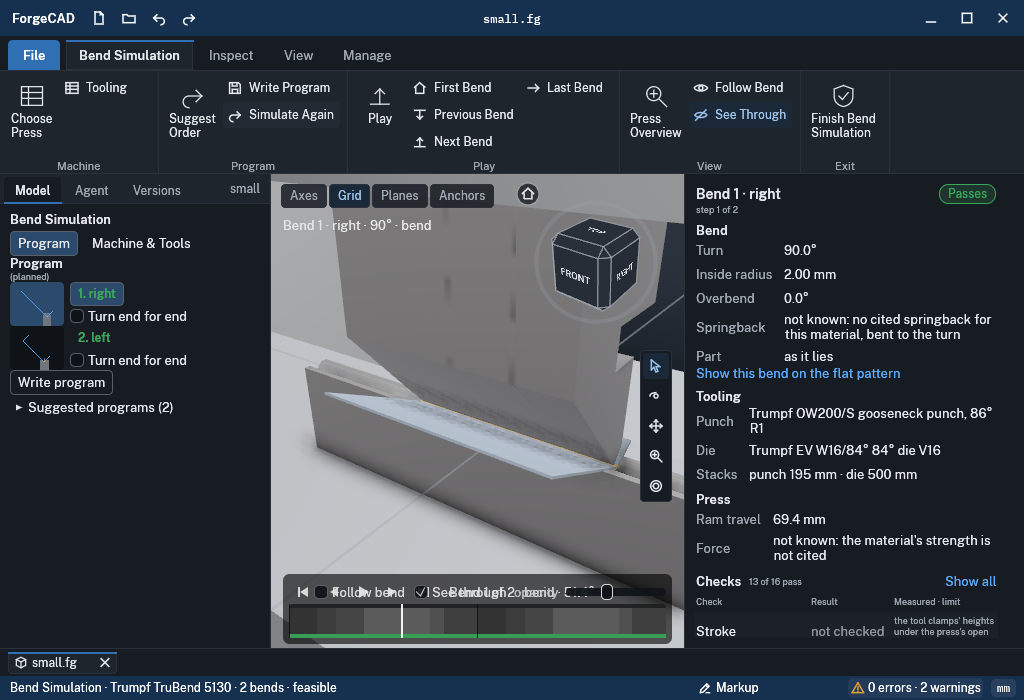
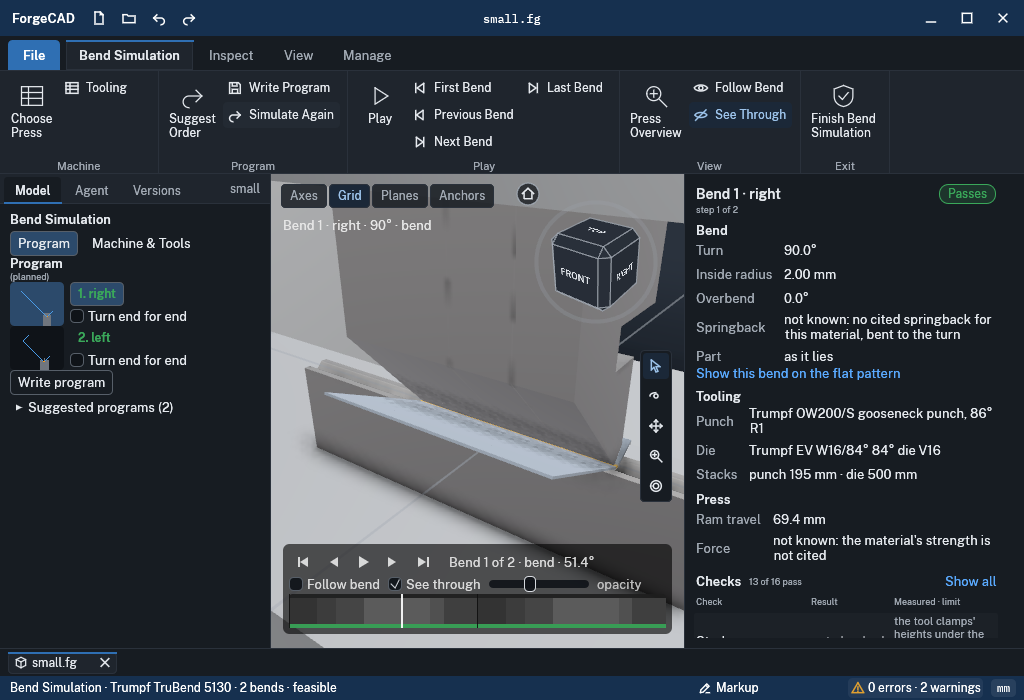
bendsim play bar: in a view under 900 px wide, Follow bend / See through / opacity on a row of their own (the bar taller), not drawn over the step's words (RENDER-STUDIO, 1000x700 in the browser); shot 09 re-shot, test checks the taller bar
Claude-Session: https://claude.ai/code/session_01WJtawvw7eU93rVnY2Eejbc

diff --git a/interface/forge-render/src/shell/bendsim.rs b/interface/forge-render/src/shell/bendsim.rs
@@ -1688,7 +1688,6 @@ pub fn bend_sheet(ui: &mut egui::Ui, t: &Theme, st: &mut BendSimUi) -> Option<St
     flat
 }
 
-/// The timeline: every step a block, its stages marked; drag to scrub.
 /// A transport button: its icon, its name and key on hover.
 fn transport(ui: &mut egui::Ui, icon: &str, tip: &str) -> egui::Response {
     let (r, resp) = ui.allocate_exact_size(egui::vec2(28.0, 24.0), egui::Sense::click());
@@ -1747,7 +1746,51 @@ fn transport(ui: &mut egui::Ui, icon: &str, tip: &str) -> egui::Response {
     resp.on_hover_text(tip)
 }
 
-pub fn timeline_ui(ui: &mut egui::Ui, st: &mut BendSimUi) {
+/// Follow bend, See through and its opacity: listed right to left at the bar's end, or left to
+/// right on a row of their own.
+fn view_settings(ui: &mut egui::Ui, st: &mut BendSimUi, rtl: bool) {
+    ui.spacing_mut().item_spacing.x = 8.0;
+    let ink = egui::Color32::from_gray(230);
+    let follow = |ui: &mut egui::Ui, st: &mut BendSimUi| {
+        if ui
+            .checkbox(&mut st.follow, egui::RichText::new("Follow bend").color(ink))
+            .on_hover_text("frame each new bend; off, the view stays where you put it")
+            .changed()
+            && st.follow
+        {
+            st.frame = Some(Framing::Work);
+        }
+    };
+    let see = |ui: &mut egui::Ui, st: &mut BendSimUi| {
+        ui.checkbox(&mut st.see_through, egui::RichText::new("See through").color(ink))
+            .on_hover_text(
+                "what stands between you and the bend being made is drawn faint; a collision stays solid red",
+            );
+    };
+    let opacity = |ui: &mut egui::Ui, st: &mut BendSimUi| {
+        if st.see_through {
+            ui.add(
+                egui::Slider::new(&mut st.opacity, 0.05..=0.8)
+                    .show_value(false)
+                    .text(egui::RichText::new("opacity").color(egui::Color32::from_gray(200))),
+            )
+            .on_hover_text("how much of what is seen through still shows");
+        }
+    };
+    if rtl {
+        opacity(ui, st);
+        see(ui, st);
+        follow(ui, st);
+    } else {
+        follow(ui, st);
+        see(ui, st);
+        opacity(ui, st);
+    }
+}
+
+/// The timeline: every step a block, its stages named in it; drag to scrub. `narrow`: the view's
+/// settings on a row of their own.
+pub fn timeline_ui(ui: &mut egui::Ui, st: &mut BendSimUi, narrow: bool) {
     let n = st.steps();
     ui.horizontal(|ui| {
         ui.spacing_mut().item_spacing.x = 2.0;
@@ -1784,37 +1827,17 @@ pub fn timeline_ui(ui: &mut egui::Ui, st: &mut BendSimUi) {
             ))
             .color(egui::Color32::from_gray(230)),
         );
-        // the view's own settings, at its foot: follow the bend, see through what hides it
-        ui.with_layout(egui::Layout::right_to_left(egui::Align::Center), |ui| {
-            ui.spacing_mut().item_spacing.x = 8.0;
-            if st.see_through {
-                ui.add(
-                    egui::Slider::new(&mut st.opacity, 0.05..=0.8)
-                        .show_value(false)
-                        .text(egui::RichText::new("opacity").color(egui::Color32::from_gray(200))),
-                )
-                .on_hover_text("how much of what is seen through still shows");
-            }
-            ui.checkbox(
-                &mut st.see_through,
-                egui::RichText::new("See through").color(egui::Color32::from_gray(230)),
-            )
-            .on_hover_text(
-                "what stands between you and the bend being made is drawn faint; a collision stays solid red",
-            );
-            if ui
-                .checkbox(
-                    &mut st.follow,
-                    egui::RichText::new("Follow bend").color(egui::Color32::from_gray(230)),
-                )
-                .on_hover_text("frame each new bend; off, the view stays where you put it")
-                .changed()
-                && st.follow
-            {
-                st.frame = Some(Framing::Work);
-            }
-        });
+        // the view's own settings, at its foot: follow the bend, see through what hides it (on a
+        // row of their own when the view is narrow)
+        if !narrow {
+            ui.with_layout(egui::Layout::right_to_left(egui::Align::Center), |ui| {
+                view_settings(ui, st, true);
+            });
+        }
     });
+    if narrow {
+        ui.horizontal(|ui| view_settings(ui, st, false));
+    }
     let w = ui.available_width().max(100.0);
     let (rect, resp) = ui.allocate_exact_size(egui::vec2(w, 34.0), egui::Sense::click_and_drag());
     let p = ui.painter_at(rect);

diff --git a/interface/forge-render/src/shell/bendsim_env.rs b/interface/forge-render/src/shell/bendsim_env.rs
@@ -356,8 +356,13 @@ pub(super) fn draw(s: &mut Shell, ui: &mut Ui, view: Rect) -> bool {
             }
         }
     }
+    // a narrow view: the view's settings on a row of their own, the bar taller for it
+    let narrow = view.width() < 900.0;
     let band = Rect::from_min_max(
-        egui::pos2(view.left() + 12.0, view.bottom() - 74.0),
+        egui::pos2(
+            view.left() + 12.0,
+            view.bottom() - if narrow { 104.0 } else { 74.0 },
+        ),
         egui::pos2(view.right() - 12.0, view.bottom() - 8.0),
     );
     egui::Area::new(egui::Id::unique("env-bendsim-timeline"))
@@ -370,7 +375,7 @@ pub(super) fn draw(s: &mut Shell, ui: &mut Ui, view: Rect) -> bool {
                 .inner_margin(6.0)
                 .show(ui, |ui| {
                     ui.set_width(band.width() - 12.0);
-                    super::bendsim::timeline_ui(ui, b);
+                    super::bendsim::timeline_ui(ui, b, narrow);
                 });
         });
     s.places.push(("env:bendsim:view".into(), view));

diff --git a/interface/forge-render/tests/bendsim_env.rs b/interface/forge-render/tests/bendsim_env.rs
@@ -233,6 +233,9 @@ fn a_small_window_holds_it_all() {
     }
     frame(&mut h, Framing::Work);
     shot(&mut h, "09-small-window-1024x700");
+    // the bar's settings on a row of their own: nothing drawn over the step's words
+    let bar = h.gui.shell.place("env:bendsim:timeline").expect("the bar");
+    assert!(bar.height() > 90.0, "a taller bar in a narrow view: {bar:?}");
     let view = h.gui.shell.place("env:bendsim:view").expect("the view");
     let dock = h.gui.shell.place("env:bendsim:properties").expect("the sheet");
     assert!(
